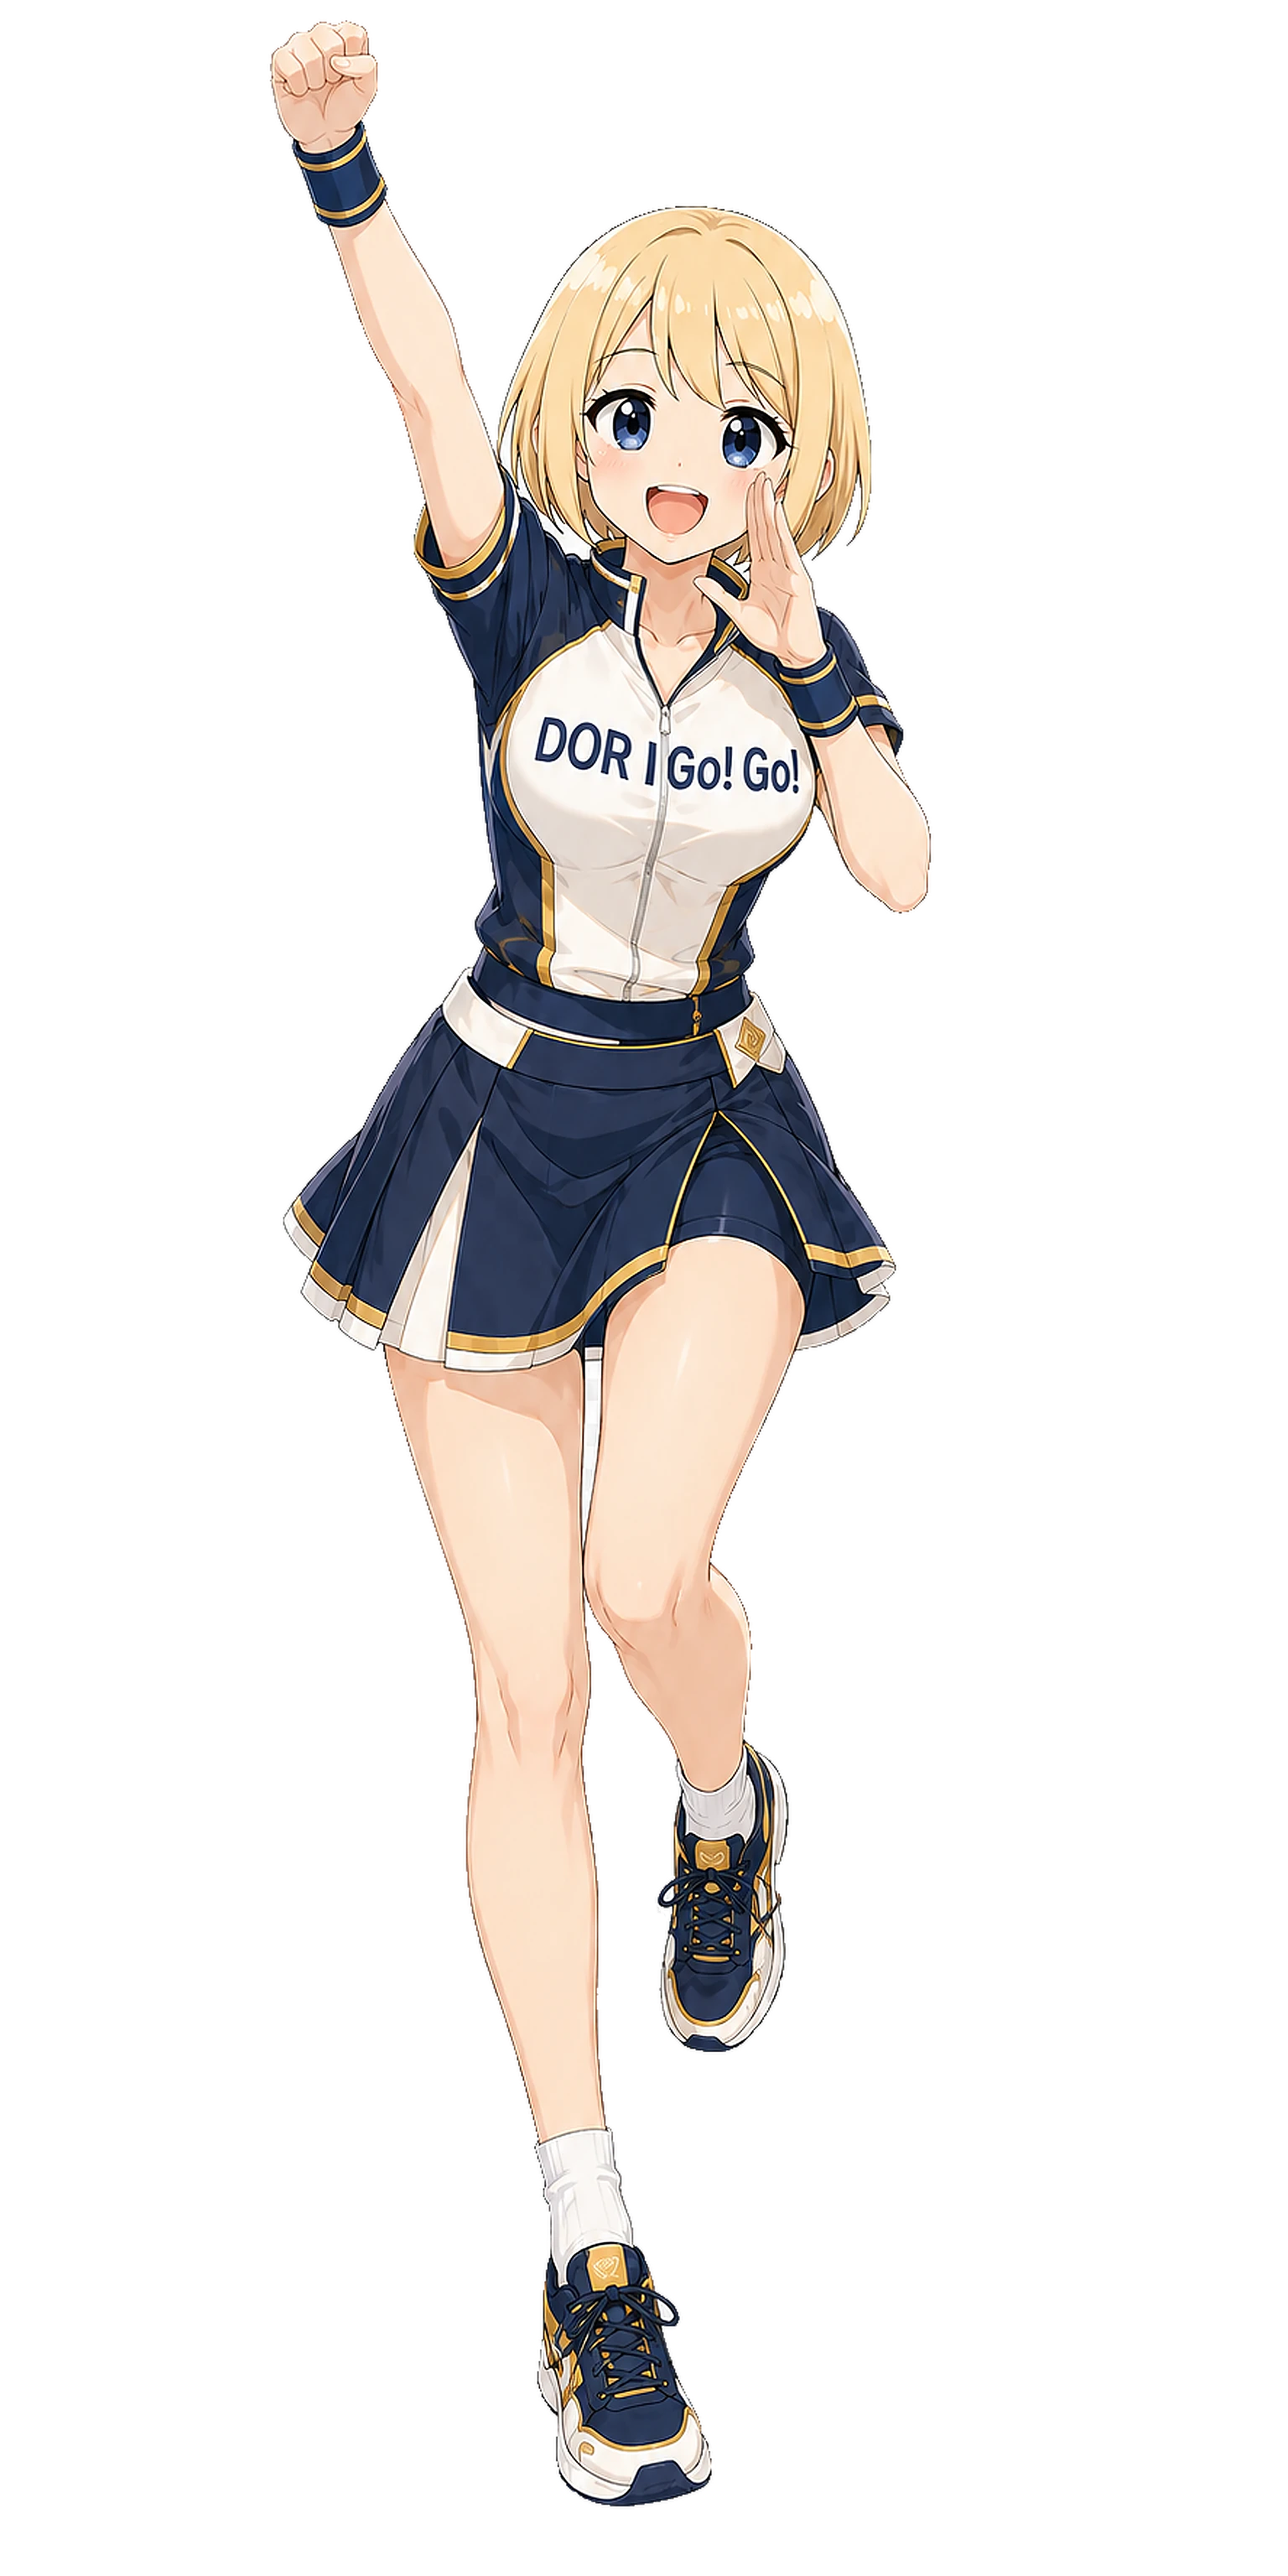
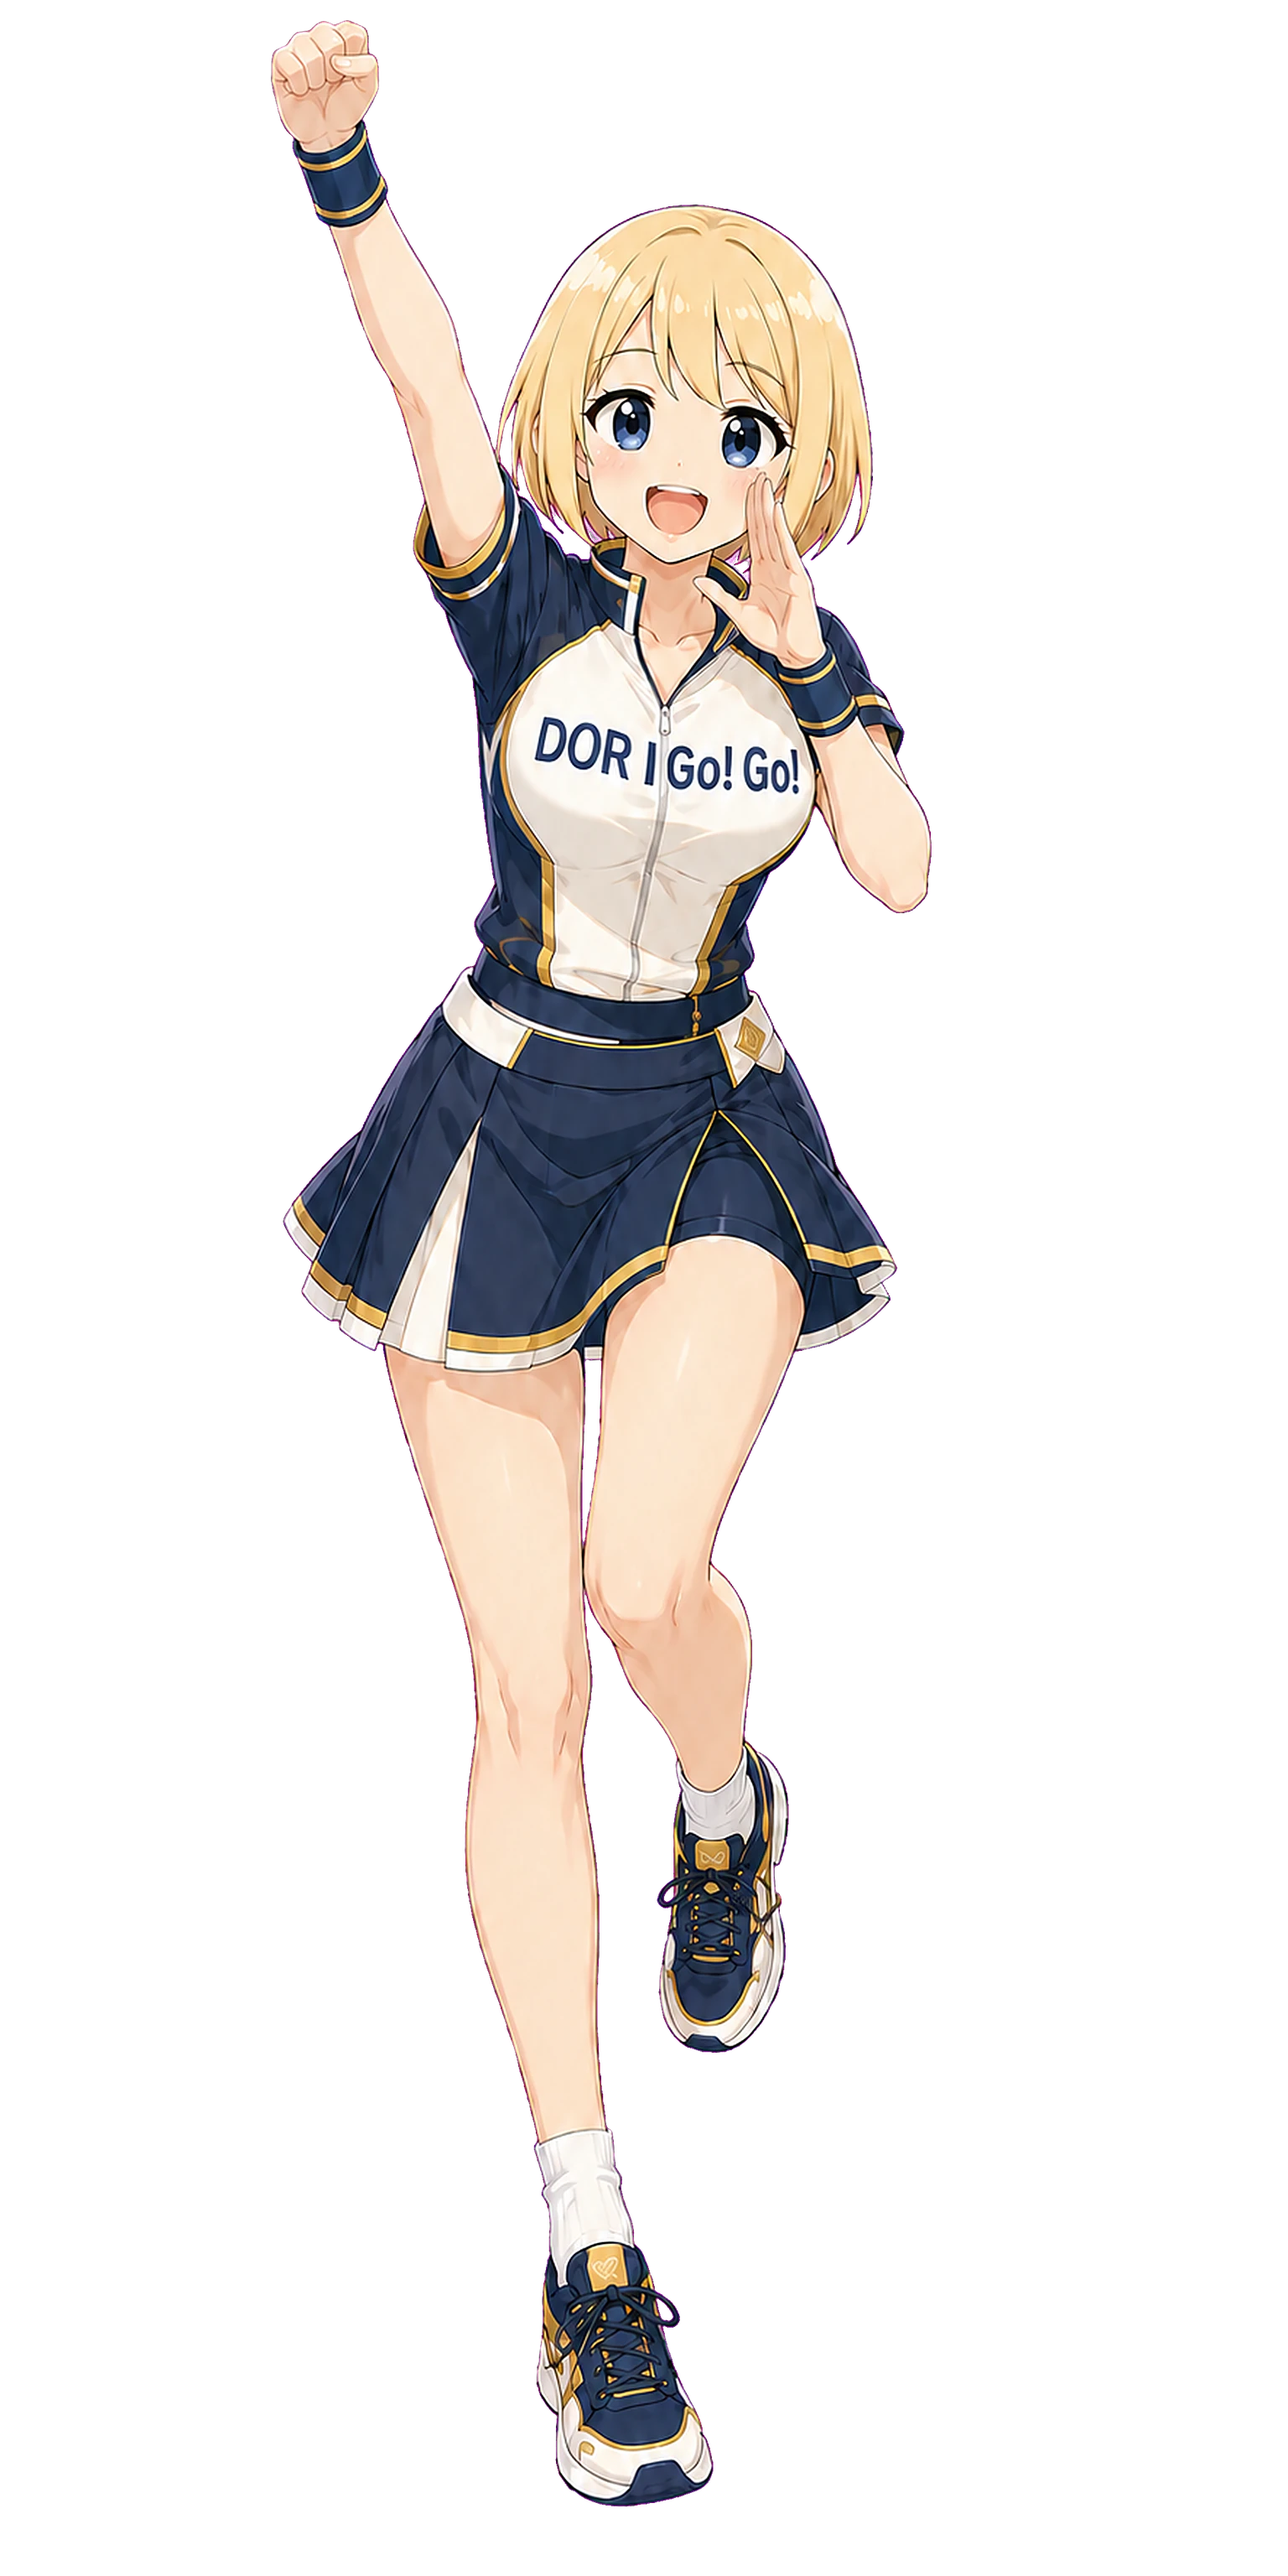
fix(track): 啦啦隊 04–08 改用去背乾淨的 Clean-v2 原圖重壓；素材版本參數 v3→v4 失效舊快取

diff --git a/apps/web/src/app/track/CheerShow.tsx b/apps/web/src/app/track/CheerShow.tsx
@@ -26,7 +26,7 @@ import type { CheerCharId, CheerCharLayout, CheerCharLayoutItem } from '@/lib/ap
 import { CHEER_CHAR_IDS, DEFAULT_CHEER_CHAR_LAYOUT } from '@/lib/api'
 
 // 素材版本參數：檔名不變但內容更新時（例如換更高解析度原圖）改這個值，強制瀏覽器與 Cloudflare 快取失效
-const ASSET_VER = 'v3'
+const ASSET_VER = 'v4'
 const BUBBLE_SRC = `/ui/cheer/chatbox.webp?${ASSET_VER}`
 // 角色清單一律由契約 CHEER_CHAR_IDS（lib/api.ts，目前 8 位 '01'..'08'）推導，這裡不再手寫。
 const CHAR_SRC_BY_ID: Record<CheerCharId, string> = Object.fromEntries(

diff --git a/services/api/internal/version/version.go b/services/api/internal/version/version.go
@@ -9,7 +9,7 @@ const Base = "1.1"
 
 // Serial 流水小版號（= 推送當下 git commit 累計數 `git rev-list --count HEAD`）。
 // 每次推送遞增；與前端 next.config.mjs 的 VERSION_SERIAL 同步。
-const Serial = "672"
+const Serial = "673"
 
 // Commit 取得目前部署的 git commit 短碼（Railway 於 runtime 注入 RAILWAY_GIT_COMMIT_SHA）。
 func Commit() string {
